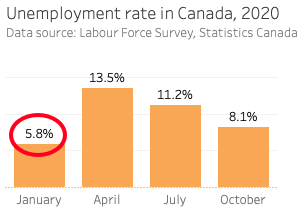
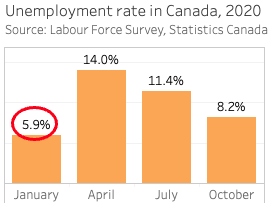
update to match updated LFS (rebased 2023)

diff --git a/slides/index.html b/slides/index.html
@@ -49,7 +49,6 @@ document.getElementsByTagName( 'head' )[0].appendChild( link );
 					<h2>Intro to data visualization with Tableau</h2>
 					<h4>UBC Library Research Commons</h4>
 					<br />
-					<p><a href="http://bit.ly/ubc-intro-data-viz">http://bit.ly/ubc-intro-data-viz</a></p>
 
 				</section>
 				<section>
@@ -68,9 +67,9 @@ document.getElementsByTagName( 'head' )[0].appendChild( link );
 					</ol>
 
 				</section>
-				<section data-background-iframe="https://native-land.ca/api/embed/embed.html?maps=territories&amp;position=49.268264,-123.157480" data-background-interactive>
+				<section>
 
-					<p class="fragment" style="background-color: rgba(255,255,255,0.5); margin-top: 50%">The Vancouver Campus is located on the traditional, ancestral, and unceded territory of the xʷməθkʷəy̓əm (Musqueam) people.<br/><span class="small">Map: <a href="https://native-land.ca/">https://native-land.ca/</a></span></p>
+					<p>The Vancouver Campus is located on the traditional, ancestral, and unceded territory of the xʷməθkʷəy̓əm (Musqueam) people.</p>
 				</section>
 				<section>
 
@@ -283,7 +282,7 @@ document.getElementsByTagName( 'head' )[0].appendChild( link );
 
 				</section>
 
-				<section data-background-iframe="https://ubc-library-rc.github.io/intro-data-viz/content/preparing_data.html#know-your-dataset" data-backtround-interactive>
+				<section data-background-iframe="https://ubc-library-rc.github.io/tableau-intro/content/preparing_data.html#know-your-dataset" data-backtround-interactive>
 				</section>
 
 

diff --git a/index.md b/index.md
@@ -17,7 +17,7 @@ At the end of this workshop, you will be able to:
 This workshop includes hands-on practice with Tableau software. To participate fully please do the following **before the workshop**
 
 1. Install [Tableau Desktop Public Edition](https://www.tableau.com/products/public/download) (free) or [Tableau Desktop](https://www.tableau.com/academic/students) (free for verified students) on your computer. Both versions work equally well for this workshop. 
-2. Download the [Labour Force Survey, 2020 sample dataset](https://drive.google.com/uc?export=download&id=1ke_9HZ9qoOLOPbWC5XhW3cw-70ba9Rua) (CSV file on Google Drive, 72MB).
+2. Download the [Labour Force Survey, 2020 sample dataset](https://drive.google.com/uc?export=download&id=1KyJBj-pSiOq1CnZgfdmmF1Sjn2uJx8dg) (CSV file on Google Drive, 72MB).
 3. **Optional:** if you are using _Tableau Desktop Public Edition_ and would like to save your work, sign up for a free [Tableau Public account](https://public.tableau.com/).
 
 Requests for the free _Tableau Desktop_ student license are verified first, the download is not immediate. If installing shortly before the workshop choose _Tableau Desktop Public Edition_ instead.   
@@ -25,7 +25,6 @@ Requests for the free _Tableau Desktop_ student license are verified first, the 
 
 ## Workshop slides
 - [HTML](slides/index.html)
-- [PDF](slides/intro-data-viz-Tableau.pdf)
 
 ## Why Tableau? 
 This workshop uses _Tableau Desktop Public Edition_ software to introduce data visualization concepts because it is freely available and accessible to beginners. 

diff --git a/content/creating-graphs.md b/content/creating-graphs.md
@@ -57,7 +57,7 @@ Right-click the green _Statistical Weight_ pill in the _Columns_ shelf and selec
 <img style="margin-left:40px; margin-bottom:50px" src="images/1-percentage.png" />
 
 ## Exercise
-The unemployed row shows 3.77% but this is not actually correct: Statistics Canada unemployment rate calculations exclude people "Not in labour force."  
+The unemployed row shows 3.85% but this is not actually correct: Statistics Canada unemployment rate calculations exclude people "Not in labour force."  
 
 Take a moment to explore and see if you can solve this problem. What is the actual unemployment rate for January 2020?
 
@@ -67,7 +67,7 @@ Take a moment to explore and see if you can solve this problem. What is the actu
 <p><strong>Solution 1:</strong> on the bar graph, right click the label "Not in labour force" and select <em>Exclude</em>. (Notice that this adds a new <em>Labour force status</em> filter to to the <em>Filters</em> card.)</p>
 <p><strong>Solution 2:</strong> drag the<em>Labour Force Survey</em>dimension from the left menu to the<em>Filters</em>card and exclude "Not in labour force".</p>
 <img style="margin-left:40px; margin-bottom:50px" src="images/1-exercise.png" />
-<p>Canada's unemployment rate for January 2020 was <strong>5.84%</strong></p>
+<p>Canada's unemployment rate for January 2020 was <strong>5.93%</strong></p>
 </div>
 </details>
 
